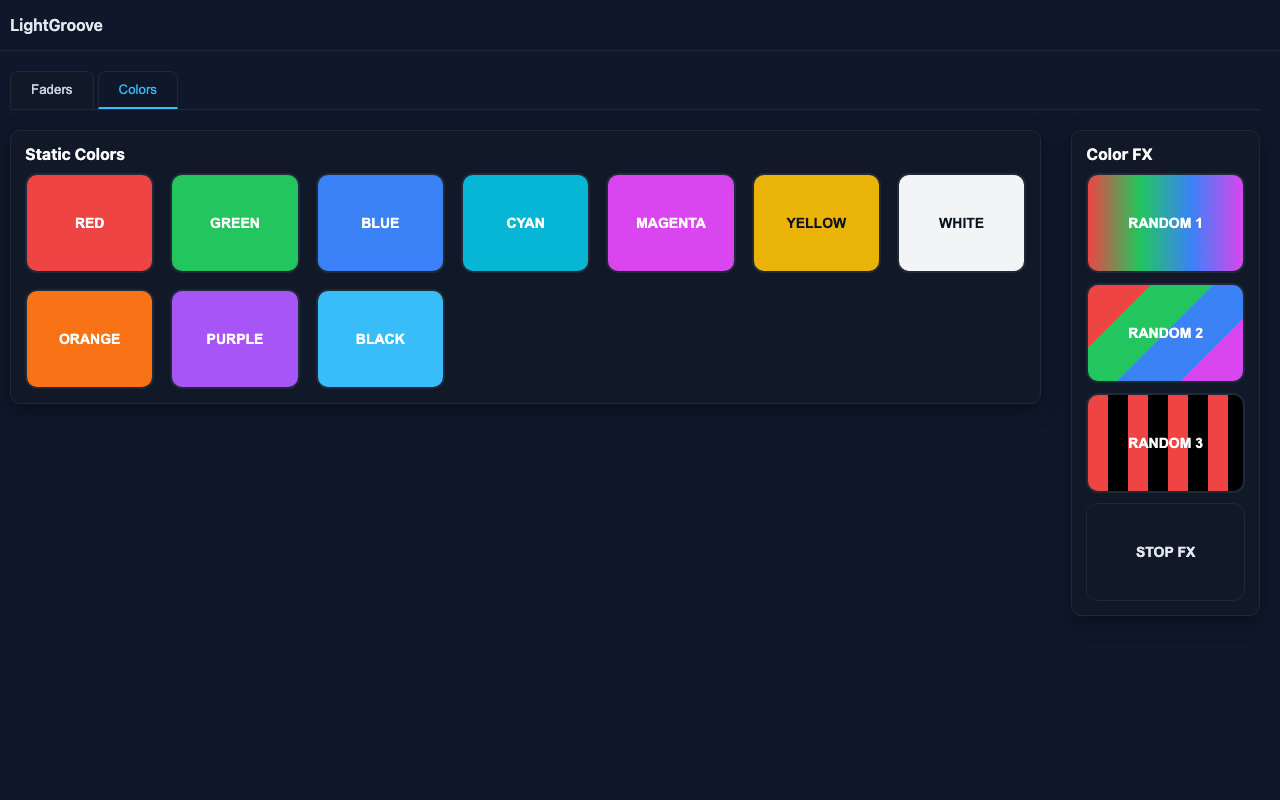
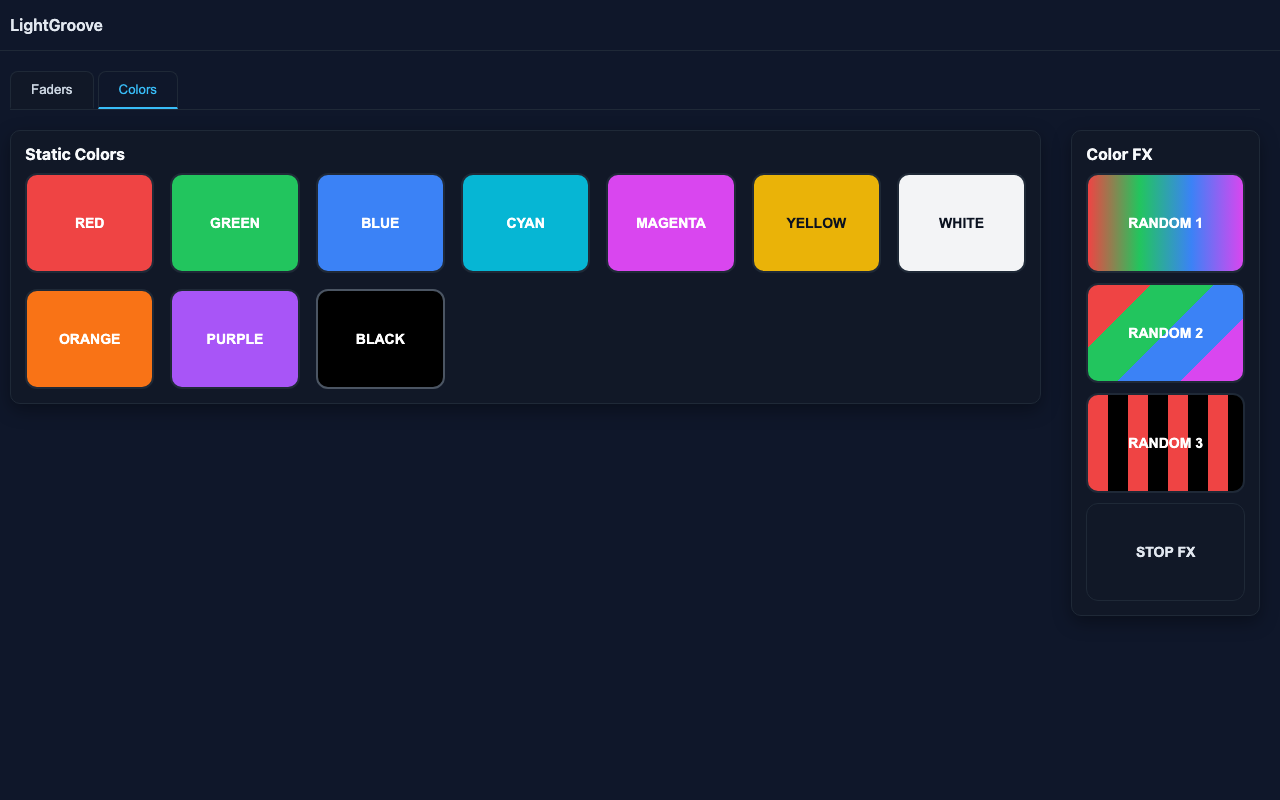
Fix: exclude black from Random 1/2, highlight active FX button, black bg for black color

Changed region(s): [[0.25, 0.3438, 0.375, 0.5]]

diff --git a/src/templates/base.html b/src/templates/base.html
@@ -219,7 +219,8 @@
           yellow: '#eab308',
           white: '#f3f4f6',
           orange: '#f97316',
-          purple: '#a855f7'
+          purple: '#a855f7',
+          black: '#000000'
         };
         
         Object.keys(serverColors).forEach(colorName => {
@@ -229,6 +230,9 @@
           btn.dataset.color = colorName;
           btn.style.background = colorHex[colorName] || '#38bdf8';
           btn.style.color = (colorName === 'yellow' || colorName === 'white') ? '#0b1220' : 'white';
+          if (colorName === 'black') {
+            btn.style.border = '2px solid #4b5563';
+          }
           btn.textContent = colorName.charAt(0).toUpperCase() + colorName.slice(1);
           
           btn.addEventListener('click', async () => {
@@ -255,20 +259,31 @@
     document.getElementById('fx-random-1').addEventListener('click', async () => {
       window.manuallySelected = false;
       await post(`${apiBase}/api/fx/start`, { fx: 'random_1' });
+      // Highlight this FX button
+      document.querySelectorAll('#fx-random-1, #fx-random-2, #fx-random-3').forEach(btn => btn.classList.remove('active'));
+      document.getElementById('fx-random-1').classList.add('active');
     });
 
     document.getElementById('fx-random-2').addEventListener('click', async () => {
       window.manuallySelected = false;
       await post(`${apiBase}/api/fx/start`, { fx: 'random_2' });
+      // Highlight this FX button
+      document.querySelectorAll('#fx-random-1, #fx-random-2, #fx-random-3').forEach(btn => btn.classList.remove('active'));
+      document.getElementById('fx-random-2').classList.add('active');
     });
 
     document.getElementById('fx-random-3').addEventListener('click', async () => {
       window.manuallySelected = false;
       await post(`${apiBase}/api/fx/start`, { fx: 'random_3' });
+      // Highlight this FX button
+      document.querySelectorAll('#fx-random-1, #fx-random-2, #fx-random-3').forEach(btn => btn.classList.remove('active'));
+      document.getElementById('fx-random-3').classList.add('active');
     });
 
     document.getElementById('fx-stop').addEventListener('click', async () => {
       await post(`${apiBase}/api/fx/stop`, {});
+      // Remove FX button highlighting when stopped
+      document.querySelectorAll('#fx-random-1, #fx-random-2, #fx-random-3').forEach(btn => btn.classList.remove('active'));
       // Keep highlighting - server preserves current_color
     });
 

diff --git a/src/color_manager.py b/src/color_manager.py
@@ -160,7 +160,8 @@ class ColorFXEngine:
             
     def _run_random_fx(self):
         """Random color cycling effect - all fixtures same color."""
-        color_names = list(COLORS.keys())
+        # Exclude 'black' from random color selection
+        color_names = [c for c in COLORS.keys() if c != 'black']
         # Map short keys to actual fixture channel names
         channel_map = {'r': 'red', 'g': 'green', 'b': 'blue', 'w': 'white'}
         
@@ -185,7 +186,8 @@ class ColorFXEngine:
     
     def _run_random_2_fx(self):
         """Random color cycling effect - each fixture gets different color."""
-        color_names = list(COLORS.keys())
+        # Exclude 'black' from random color selection
+        color_names = [c for c in COLORS.keys() if c != 'black']
         # Map short keys to actual fixture channel names
         channel_map = {'r': 'red', 'g': 'green', 'b': 'blue', 'w': 'white'}
         fixture_last_colors = {}  # Track last color per fixture
